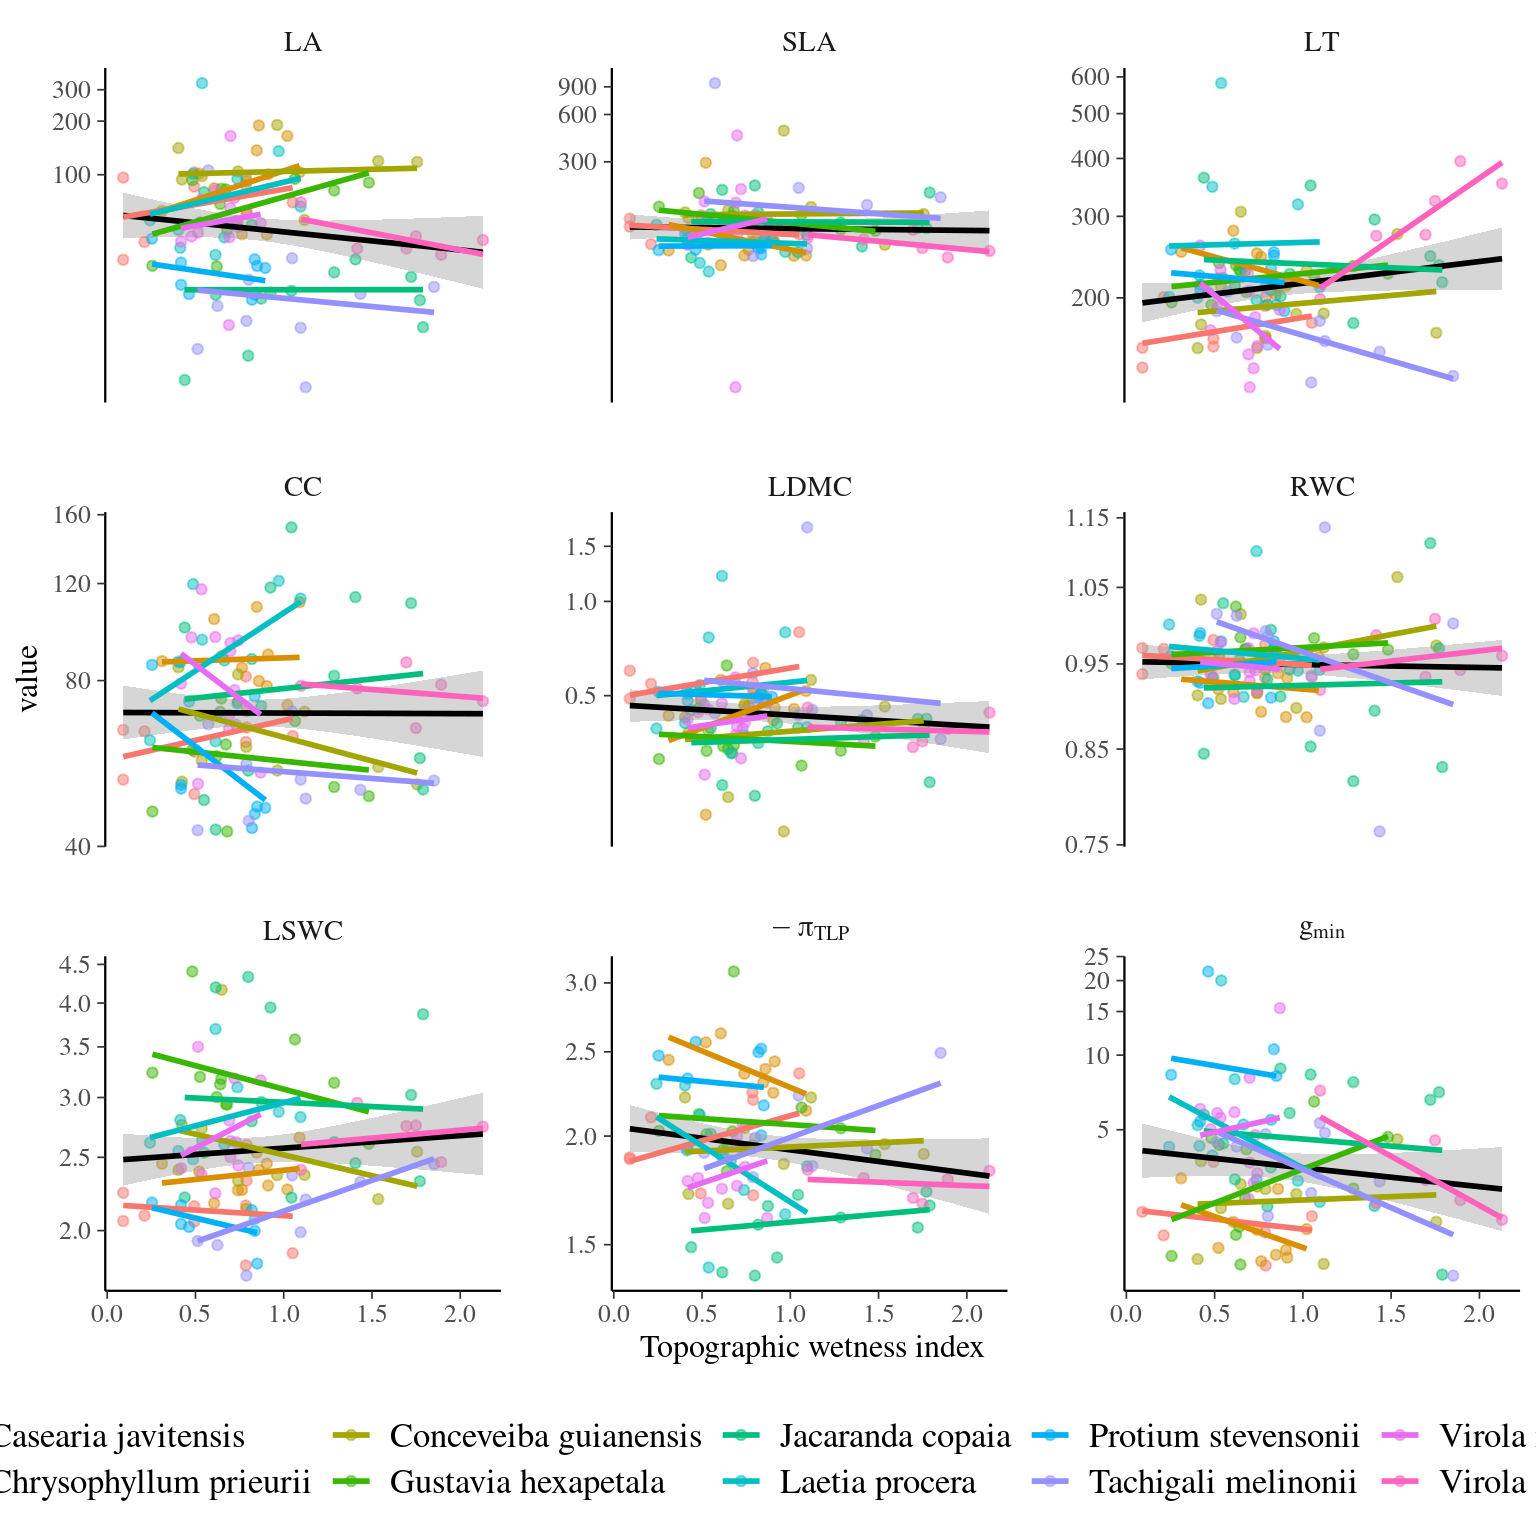
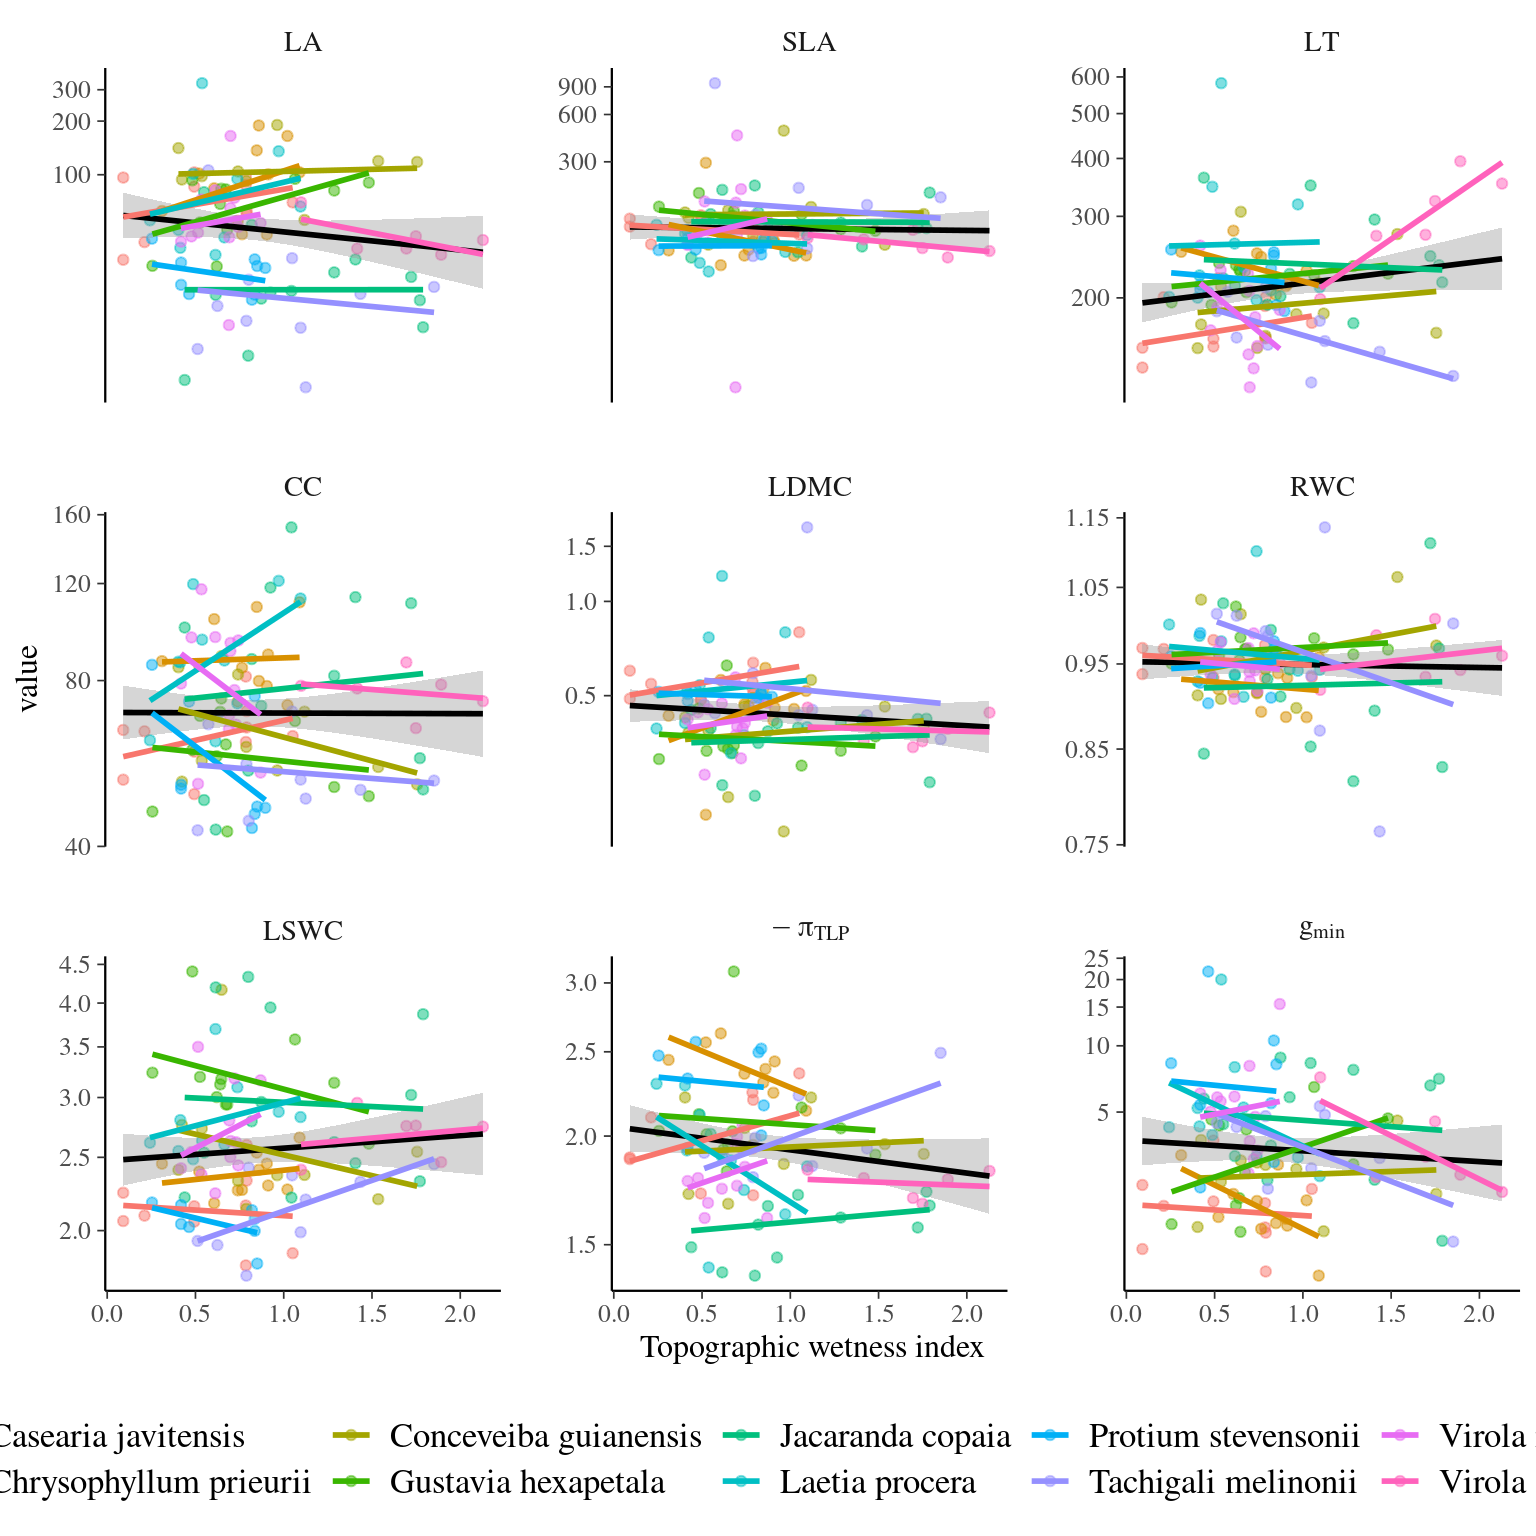
hydroITV 1.0.0.9029: updated gmin

Changed region(s): [[0.7188, 0.6562, 1.0, 0.8438], [0.6875, 0.625, 0.7188, 0.6562]]

diff --git a/docs/ontogeny-and-topography-effects.html b/docs/ontogeny-and-topography-effects.html
@@ -24,7 +24,7 @@
 <meta name="author" content="Sylvain Schmitt" />
 
 
-<meta name="date" content="2022-04-01" />
+<meta name="date" content="2022-04-26" />
 
   <meta name="viewport" content="width=device-width, initial-scale=1" />
   <meta name="apple-mobile-web-app-capable" content="yes" />
@@ -1007,98 +1007,98 @@ Figure 6.3: Model species effect for DBH slope.
 <td align="left">All</td>
 <td align="right"></td>
 <td align="right"></td>
-<td align="right">-0.009</td>
+<td align="right">0.002</td>
 <td align="right"></td>
-<td align="right">0.773</td>
+<td align="right">0.775</td>
 </tr>
 <tr class="odd">
 <td align="left">gmin</td>
 <td align="left">Casearia javitensis</td>
-<td align="right">-1.000</td>
-<td align="right">0.686</td>
+<td align="right">-1.299</td>
+<td align="right">0.566</td>
 <td align="right"></td>
-<td align="right">-0.135</td>
+<td align="right">-0.091</td>
 <td align="right"></td>
 </tr>
 <tr class="even">
 <td align="left">gmin</td>
 <td align="left">Chrysophyllum prieurii</td>
-<td align="right">-1.233</td>
-<td align="right">0.631</td>
+<td align="right">-1.218</td>
+<td align="right">0.685</td>
 <td align="right"></td>
-<td align="right">-0.364</td>
+<td align="right">-0.647</td>
 <td align="right"></td>
 </tr>
 <tr class="odd">
 <td align="left">gmin</td>
 <td align="left">Conceveiba guianensis</td>
-<td align="right">-0.733</td>
-<td align="right">0.826</td>
+<td align="right">-0.573</td>
+<td align="right">0.907</td>
 <td align="right"></td>
-<td align="right">0.084</td>
+<td align="right">0.081</td>
 <td align="right"></td>
 </tr>
 <tr class="even">
 <td align="left">gmin</td>
 <td align="left">Gustavia hexapetala</td>
-<td align="right">-0.451</td>
-<td align="right">0.897</td>
+<td align="right">-0.308</td>
+<td align="right">0.955</td>
 <td align="right"></td>
-<td align="right">0.567</td>
+<td align="right">0.518</td>
 <td align="right"></td>
 </tr>
 <tr class="odd">
 <td align="left">gmin</td>
 <td align="left">Jacaranda copaia</td>
-<td align="right">0.639</td>
-<td align="right">0.978</td>
+<td align="right">0.704</td>
+<td align="right">0.974</td>
 <td align="right"></td>
-<td align="right">-0.180</td>
+<td align="right">-0.156</td>
 <td align="right"></td>
 </tr>
 <tr class="even">
 <td align="left">gmin</td>
 <td align="left">Laetia procera</td>
-<td align="right">0.504</td>
-<td align="right">0.590</td>
+<td align="right">0.568</td>
+<td align="right">0.573</td>
 <td align="right"></td>
-<td align="right">-0.692</td>
+<td align="right">-0.633</td>
 <td align="right"></td>
 </tr>
 <tr class="odd">
 <td align="left">gmin</td>
 <td align="left">Protium stevensonii</td>
-<td align="right">1.616</td>
-<td align="right">0.604</td>
+<td align="right">1.158</td>
+<td align="right">0.682</td>
 <td align="right"></td>
-<td align="right">-0.305</td>
+<td align="right">-0.097</td>
 <td align="right"></td>
 </tr>
 <tr class="even">
 <td align="left">gmin</td>
 <td align="left">Tachigali melinonii</td>
-<td align="right">-0.049</td>
-<td align="right">0.854</td>
+<td align="right">0.019</td>
+<td align="right">0.868</td>
 <td align="right"></td>
-<td align="right">-0.498</td>
+<td align="right">-0.465</td>
 <td align="right"></td>
 </tr>
 <tr class="odd">
 <td align="left">gmin</td>
 <td align="left">Virola michelii</td>
-<td align="right">0.837</td>
-<td align="right">0.779</td>
+<td align="right">0.911</td>
+<td align="right">0.780</td>
 <td align="right"></td>
-<td align="right">0.239</td>
+<td align="right">0.211</td>
 <td align="right"></td>
 </tr>
 <tr class="even">
 <td align="left">gmin</td>
 <td align="left">Virola surinamensis</td>
-<td align="right">-0.033</td>
-<td align="right">0.898</td>
+<td align="right">0.011</td>
+<td align="right">0.871</td>
 <td align="right"></td>
-<td align="right">-0.375</td>
+<td align="right">-0.340</td>
 <td align="right"></td>
 </tr>
 </tbody>

diff --git a/docs/traits-variation.html b/docs/traits-variation.html
@@ -24,7 +24,7 @@
 <meta name="author" content="Sylvain Schmitt" />
 
 
-<meta name="date" content="2022-04-01" />
+<meta name="date" content="2022-04-26" />
 
   <meta name="viewport" content="width=device-width, initial-scale=1" />
   <meta name="apple-mobile-web-app-capable" content="yes" />
@@ -388,7 +388,7 @@ Casearia javitensis
 0.176
 </td>
 <td style="text-align:right;">
-0.446
+0.673
 </td>
 </tr>
 <tr>
@@ -417,7 +417,7 @@ Chrysophyllum prieurii
 0.077
 </td>
 <td style="text-align:right;">
-0.425
+0.590
 </td>
 </tr>
 <tr>
@@ -562,7 +562,7 @@ Protium stevensonii
 0.138
 </td>
 <td style="text-align:right;">
-0.256
+0.400
 </td>
 </tr>
 <tr>
@@ -678,7 +678,7 @@ mean
 0.162
 </td>
 <td style="text-align:right;">
-0.389
+0.442
 </td>
 </tr>
 </tbody>

diff --git a/docs/index.html b/docs/index.html
@@ -24,7 +24,7 @@
 <meta name="author" content="Sylvain Schmitt" />
 
 
-<meta name="date" content="2022-04-01" />
+<meta name="date" content="2022-04-26" />
 
   <meta name="viewport" content="width=device-width, initial-scale=1" />
   <meta name="apple-mobile-web-app-capable" content="yes" />
@@ -252,7 +252,7 @@ This book is in <b><a href="open.html#open">Open Review</a></b>. I want your fee
 <h1 class="title">hydroITV</h1>
 <h2 class="subtitle"><em>Hydraulic trait inter- versus intra-specific local variability.</em></h2>
 <p class="author"><em>Sylvain Schmitt</em></p>
-<p class="date"><em>2022-04-01</em></p>
+<p class="date"><em>2022-04-26</em></p>
 </div>
 <div id="preface" class="section level1 unnumbered">
 <h1>Preface</h1>

diff --git a/docs/field-data.html b/docs/field-data.html
@@ -24,7 +24,7 @@
 <meta name="author" content="Sylvain Schmitt" />
 
 
-<meta name="date" content="2022-04-01" />
+<meta name="date" content="2022-04-26" />
 
   <meta name="viewport" content="width=device-width, initial-scale=1" />
   <meta name="apple-mobile-web-app-capable" content="yes" />

diff --git a/docs/introduction.html b/docs/introduction.html
@@ -24,7 +24,7 @@
 <meta name="author" content="Sylvain Schmitt" />
 
 
-<meta name="date" content="2022-04-01" />
+<meta name="date" content="2022-04-26" />
 
   <meta name="viewport" content="width=device-width, initial-scale=1" />
   <meta name="apple-mobile-web-app-capable" content="yes" />

diff --git a/docs/literature.html b/docs/literature.html
@@ -24,7 +24,7 @@
 <meta name="author" content="Sylvain Schmitt" />
 
 
-<meta name="date" content="2022-04-01" />
+<meta name="date" content="2022-04-26" />
 
   <meta name="viewport" content="width=device-width, initial-scale=1" />
   <meta name="apple-mobile-web-app-capable" content="yes" />

diff --git a/docs/meetings.html b/docs/meetings.html
@@ -24,7 +24,7 @@
 <meta name="author" content="Sylvain Schmitt" />
 
 
-<meta name="date" content="2022-04-01" />
+<meta name="date" content="2022-04-26" />
 
   <meta name="viewport" content="width=device-width, initial-scale=1" />
   <meta name="apple-mobile-web-app-capable" content="yes" />

diff --git a/docs/references.html b/docs/references.html
@@ -24,7 +24,7 @@
 <meta name="author" content="Sylvain Schmitt" />
 
 
-<meta name="date" content="2022-04-01" />
+<meta name="date" content="2022-04-26" />
 
   <meta name="viewport" content="width=device-width, initial-scale=1" />
   <meta name="apple-mobile-web-app-capable" content="yes" />

diff --git a/docs/traits-covariation.html b/docs/traits-covariation.html
@@ -24,7 +24,7 @@
 <meta name="author" content="Sylvain Schmitt" />
 
 
-<meta name="date" content="2022-04-01" />
+<meta name="date" content="2022-04-26" />
 
   <meta name="viewport" content="width=device-width, initial-scale=1" />
   <meta name="apple-mobile-web-app-capable" content="yes" />

diff --git a/docs/traits.html b/docs/traits.html
@@ -24,7 +24,7 @@
 <meta name="author" content="Sylvain Schmitt" />
 
 
-<meta name="date" content="2022-04-01" />
+<meta name="date" content="2022-04-26" />
 
   <meta name="viewport" content="width=device-width, initial-scale=1" />
   <meta name="apple-mobile-web-app-capable" content="yes" />

diff --git a/docs/virtual-experiment.html b/docs/virtual-experiment.html
@@ -24,7 +24,7 @@
 <meta name="author" content="Sylvain Schmitt" />
 
 
-<meta name="date" content="2022-04-01" />
+<meta name="date" content="2022-04-26" />
 
   <meta name="viewport" content="width=device-width, initial-scale=1" />
   <meta name="apple-mobile-web-app-capable" content="yes" />

diff --git a/NEWS.md b/NEWS.md
@@ -1,3 +1,6 @@
+hydroITV 1.0.0.9029
+* updated gmin
+
 hydroITV 1.0.0.9028
 * quick comparison with Daniela's data
 
